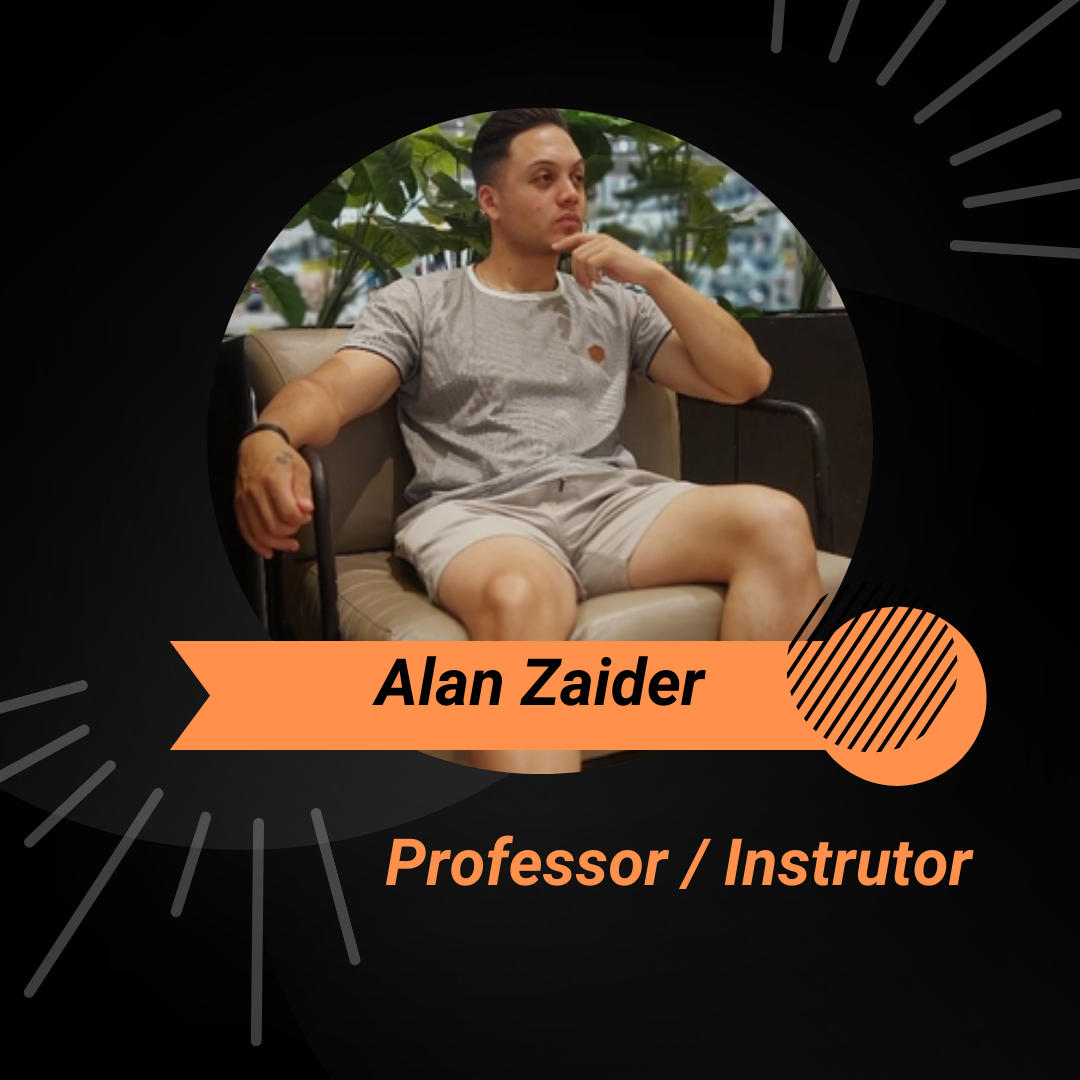
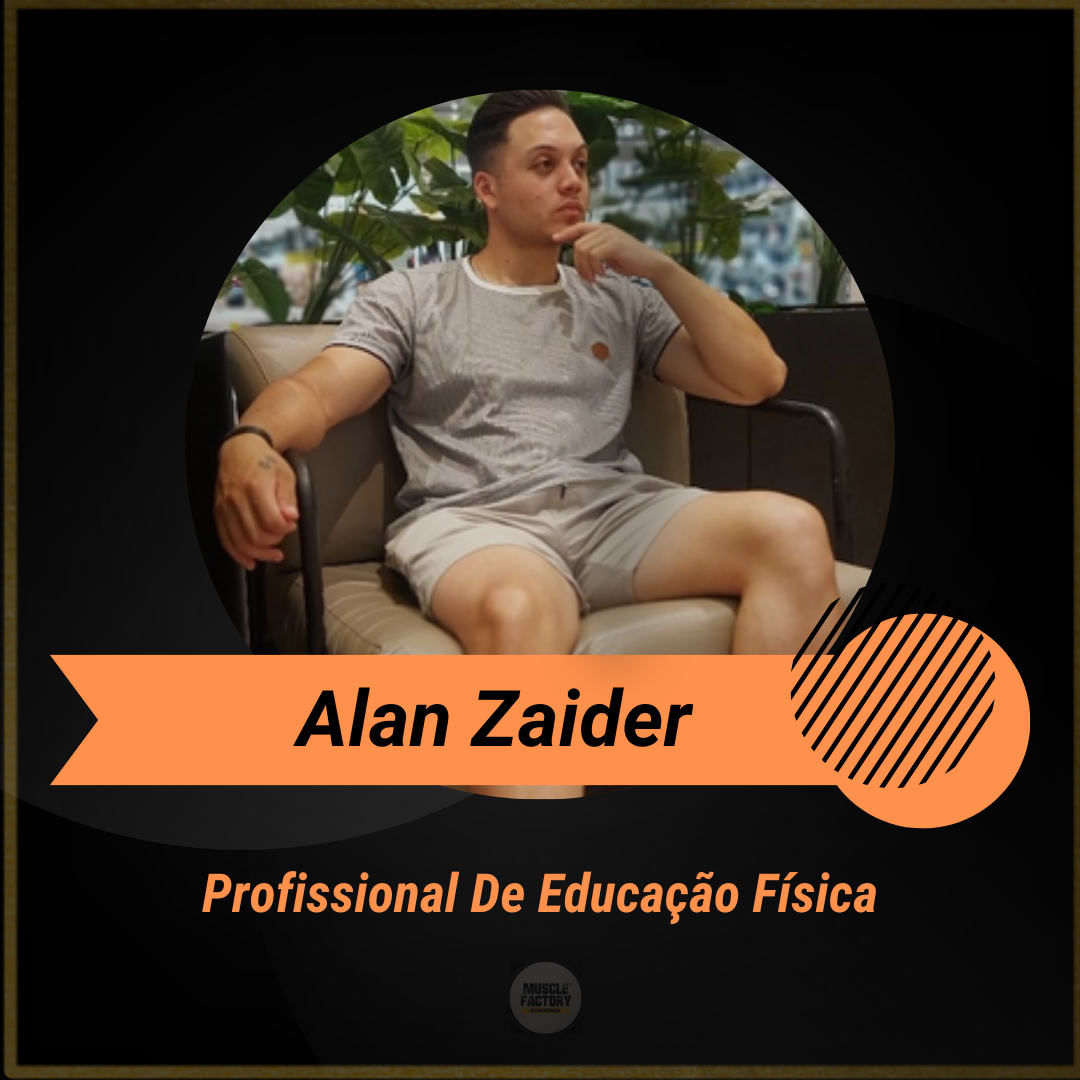
update

Changed region(s): [[0.0, 0.0, 1.0, 1.0], [0.825, 0.0611, 0.9167, 0.1222], [0.7944, 0.0611, 0.825, 0.0917]]

diff --git a/index.html b/index.html
@@ -276,7 +276,7 @@
             <div class="col-md-6 col-xl-3 offset-top-66 offset-md-top-0 offset-xl-top-0">
               <!-- Box Member-->
               <div class="box-member"><img class="img-fluid" src="imgs-muscle/alan-perf.png" alt="" />
-                <h5 class="font-weight-bold offset-top-20"><a href="about-coach.html">{Inserir Texto}</a> <small
+                <h5 class="font-weight-bold offset-top-20"><a href="#about-coach.html">{Inserir Texto}</a> <small
                     class="text-danger"></small>
                 </h5>
                 <div class="box-member-caption">
@@ -300,7 +300,7 @@
             <div class="col-md-6 col-xl-3 offset-top-66 offset-xl-top-0">
               <!-- Box Member-->
               <div class="box-member"><img class="img-fluid" src="imgs-muscle/eduardo-perf.png" alt="" />
-                <h5 class="font-weight-bold offset-top-20"><a href="about-coach.html">{Inserir Texto}</a> <small
+                <h5 class="font-weight-bold offset-top-20"><a href="#about-coach.html">{Inserir Texto}</a> <small
                     class="text-danger"></small>
                 </h5>
                 <div class="box-member-caption">
@@ -323,9 +323,9 @@
             </div>
             <div class="col-md-6 col-xl-3 offset-top-66 offset-xl-top-0">
               <!-- Box Member-->
-              <div class="box-member"><img class="img-fluid" src="images/user-austin-ortiz-270x270.jpg" alt="" />
-                <h5 class="font-weight-bold offset-top-20"><a href="about-coach.html">{Inserir Texto}</a> <small
-                    class="text-danger"></small>
+              <div class="box-member"><img class="img-fluid" src="imgs-muscle/adriane-perf.png" alt="" />
+                <h5 class="font-weight-bold offset-top-20"><a href="#about-coach.html">{Corredora amadora / Maratonista / Trail}</a><br><small
+                    class="text-danger">Educação Física</small>
                 </h5>
                 <div class="box-member-caption">
                   <div class="box-member-caption-inner">
@@ -439,14 +439,14 @@
                 </p>
                 <div class="offset-top-30">
                   <form class="rd-mailform" data-form-output="form-subscribe-footer" data-form-type="subscribe"
-                    method="post" action="php/processar_registro.php">
+                    method="post" action="#">
                     <div class="form-group">
                       <div class="input-group input-group-sm"><span class="input-group-prepend"><span
                             class="input-group-text input-group-icon"><span
                               class="mdi mdi-email novi-icon"></span></span></span>
                         <input class="form-control" placeholder="Insira seu email" type="email" name="email"
                           data-constraints="@Required @Email"><span class="input-group-append">
-                          <button class="btn btn-sm btn-danger" type="submit">Inscreva-se</button></span>
+                          <button class="btn btn-sm btn-danger" type="submit">Inscreva-se</button></span> <!-- Em breve -->
                       </div>
                     </div>
                     <div class="form-output" id="form-subscribe-footer"></div>

diff --git a/css/style.css b/css/style.css
@@ -642,7 +642,7 @@ mark,
 }
 
 .img-fluid {
-	max-width: 100%;
+	max-width: 270px;
 	height: auto;
 }
 

diff --git a/formulario.php b/formulario.php
@@ -2,21 +2,21 @@
 
     if(isset($_POST['submit']))
     {
-        // print_r('Nome: ' . $_POST['nome']);
-        // print_r('<br>');
-        // print_r('Email: ' . $_POST['email']);
-        // print_r('<br>');
-        // print_r('Telefone: ' . $_POST['telefone']);
-        // print_r('<br>');
-        // print_r('Sexo: ' . $_POST['genero']);
-        // print_r('<br>');
-        // print_r('Data de nascimento: ' . $_POST['data_nascimento']);
-        // print_r('<br>');
-        // print_r('Cidade: ' . $_POST['cidade']);
-        // print_r('<br>');
-        // print_r('Estado: ' . $_POST['estado']);
-        // print_r('<br>');
-        // print_r('Endereço: ' . $_POST['endereco']);
+         print_r('Nome: ' . $_POST['nome']);
+         print_r('<br>');
+         print_r('Email: ' . $_POST['email']);
+         print_r('<br>');
+         print_r('Telefone: ' . $_POST['telefone']);
+         print_r('<br>');
+         print_r('Sexo: ' . $_POST['genero']);
+         print_r('<br>');
+         print_r('Data de nascimento: ' . $_POST['data_nascimento']);
+         print_r('<br>');
+         print_r('Cidade: ' . $_POST['cidade']);
+         print_r('<br>');
+         print_r('Estado: ' . $_POST['estado']);
+         print_r('<br>');
+         print_r('Endereço: ' . $_POST['endereco']);
 
         include_once('config.php');
 
@@ -38,7 +38,7 @@
 
 ?>
 <!DOCTYPE html>
-<html lang="en">
+<html lang="pt-br">
 <head>
     <meta charset="UTF-8">
     <meta http-equiv="X-UA-Compatible" content="IE=edge">
